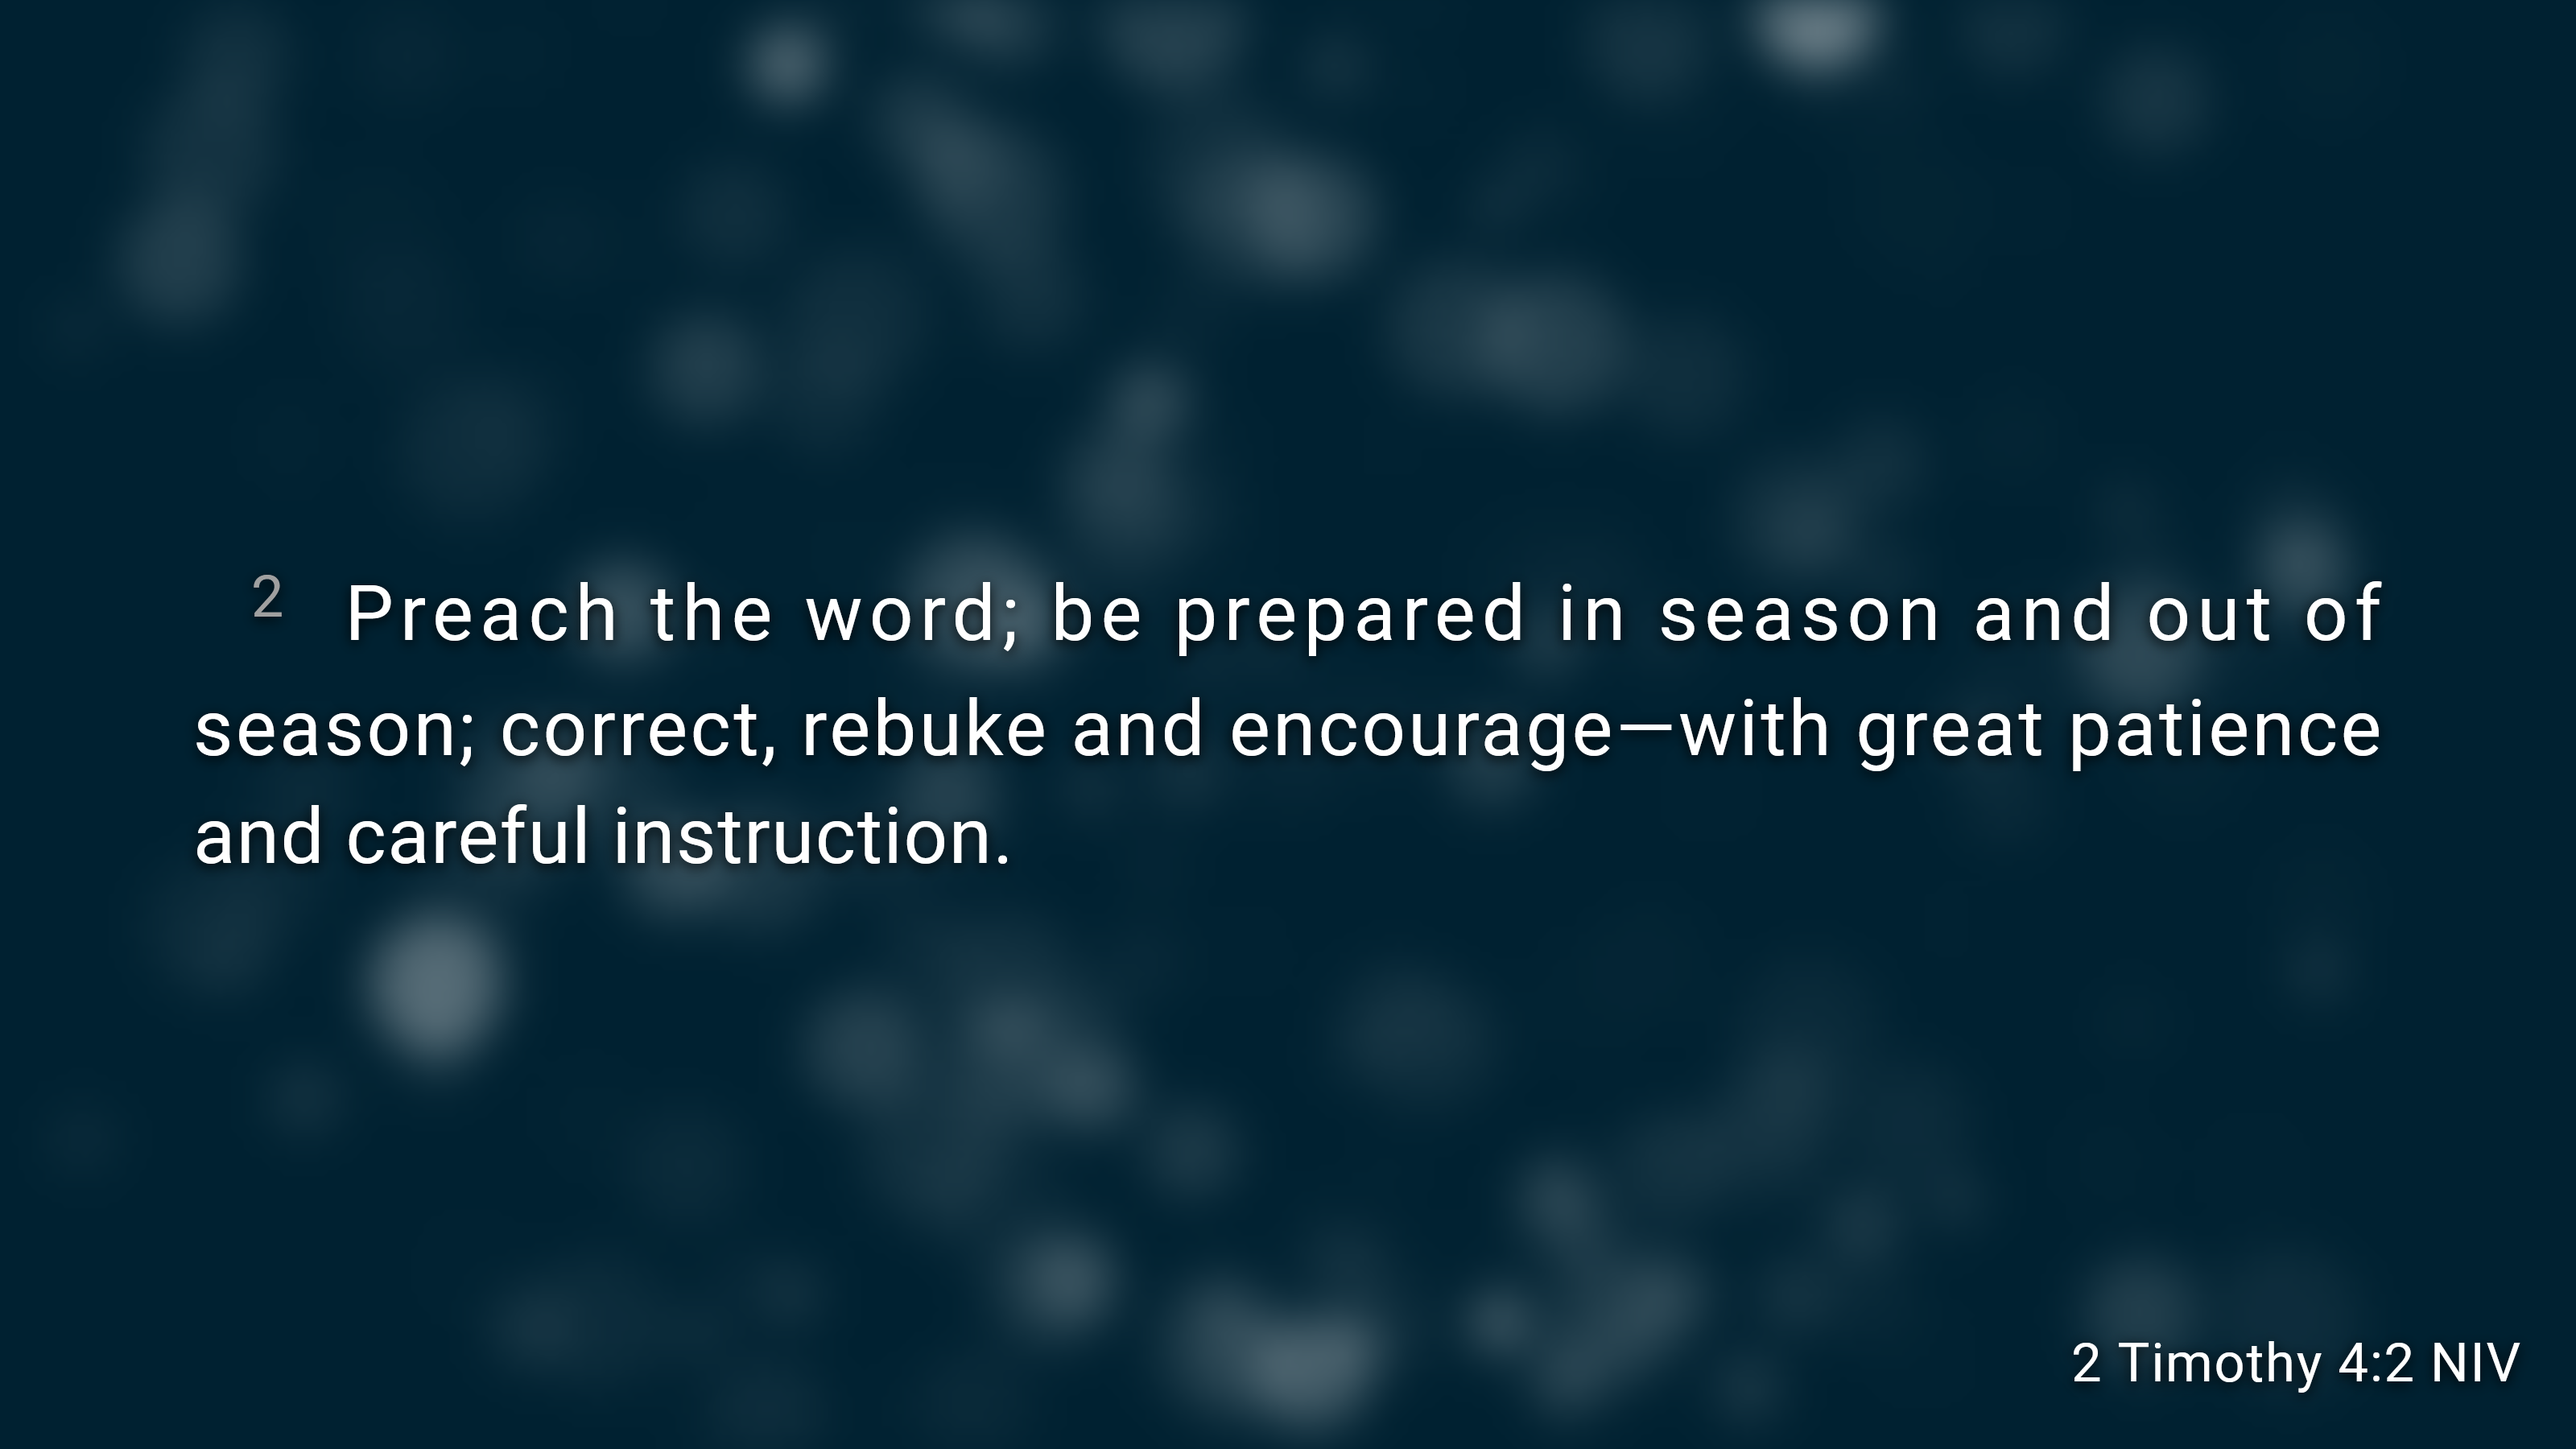
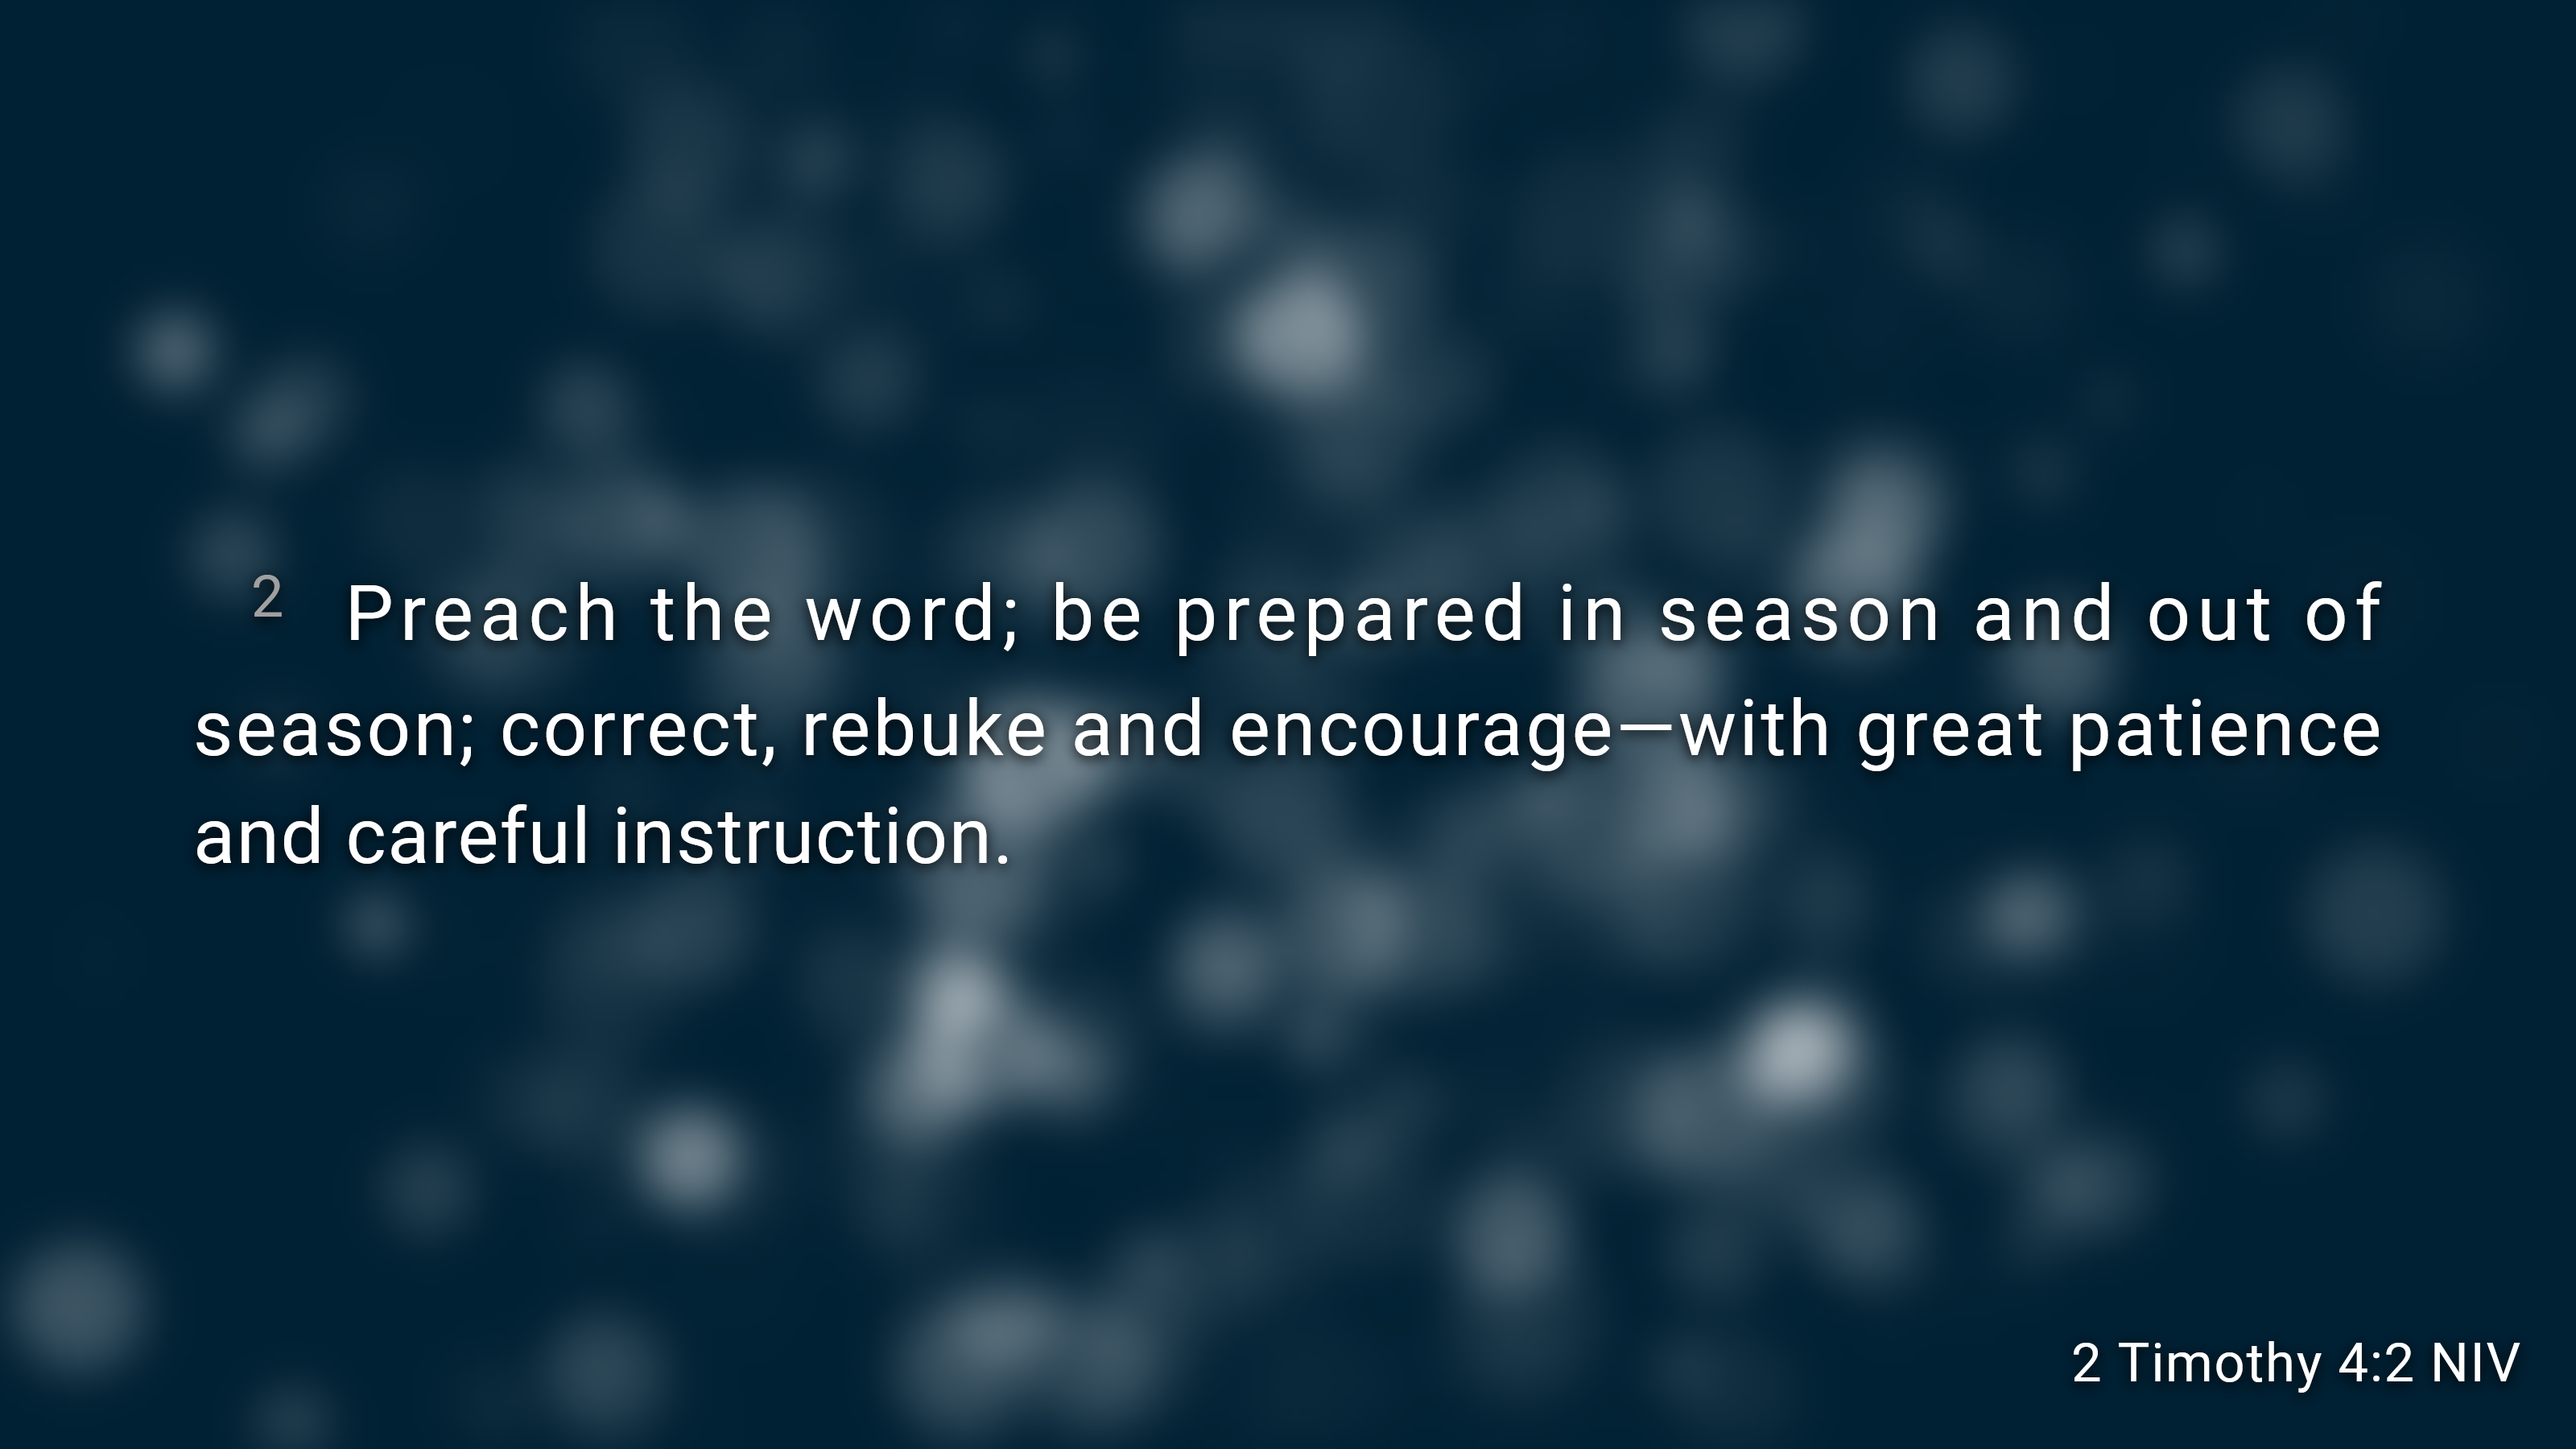
Sparkles update (colors, particle count)

diff --git a/backgrounds/sparkles.js b/backgrounds/sparkles.js
@@ -31,7 +31,7 @@
     var Y = canvas.height = window.innerHeight;
     var mouseX = null;
     var mouseY = null;
-    var shapeNum = 300;
+    var shapeNum = 500;
     var shapes = [];
     var minSize = 15;
     var maxSize = 45;
@@ -98,7 +98,7 @@
       ctx.globalCompositeOperation = 'lighter';
       ctx.globalAlpha = this.ga;
       //ctx.fillStyle = 'rgb(123, 252, 100)';
-	  ctx.fillStyle = 'rgba(255, 255, 255,0.6)';
+	  ctx.fillStyle = 'rgba(255, 255, 255,0.8)';
       //ctx.fillStyle = 'rgb(255,255,255)';
       ctx.beginPath();
       ctx.arc(this.x, this.y, this.r, 0, Math.PI * 2, false);

diff --git a/backgrounds/sparkles-inner.css b/backgrounds/sparkles-inner.css
@@ -7,7 +7,7 @@
 
 body {
   position: relative;
-  background: #002131;
+  background: #002033;
   #background: #00222B;
   filter: blur(15px);
 }
